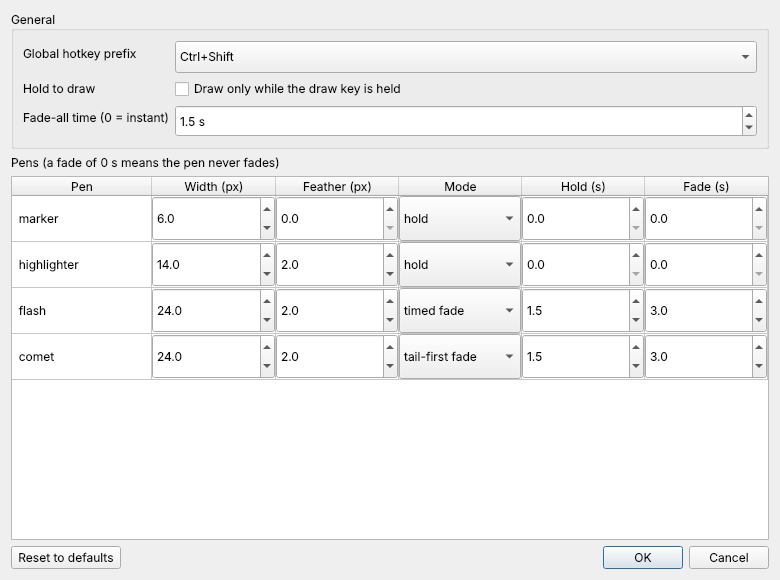
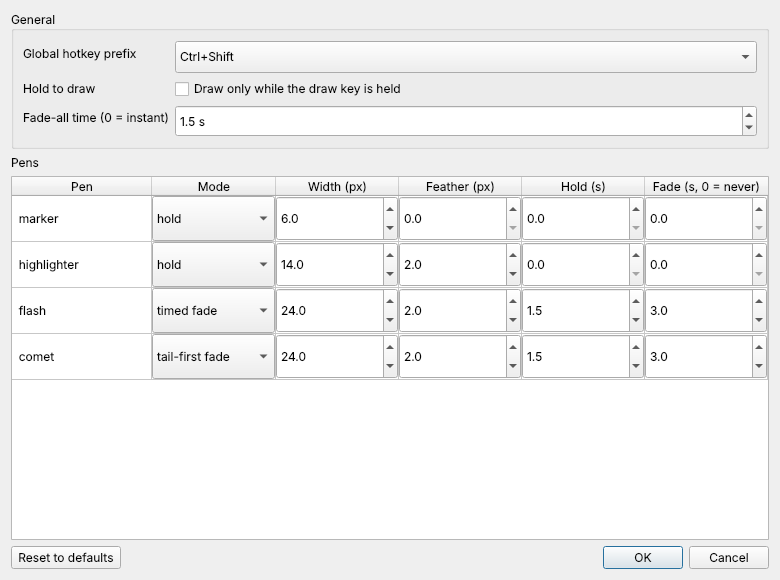
feat: put Mode next to Pen in settings and the fade reminder in its header
The settings dialog's pen table now reads Pen, Mode, Width, Feather, Hold,
Fade, so how a pen fades sits right next to its name and the numbers that
tune it follow. The values are read from per-kind lists, not column
positions, so moving the column cannot swap what it edits (a test edits
each column and checks the value it changes).

The "a fade of 0 s means the pen never fades" sentence moves from above the
table into the Fade column header, "Fade (s, 0 = never)", with a tooltip
carrying the full sentence; the label above the table is now just "Pens".
Tests check the header text and tooltip, that the sentence is gone from
above the table, and that the header fits its column at the default size.
The settings screenshot is regenerated. Refreshes the session log.

AIA PAI SeCeNc Hin R Claude Code Web Sonnet 5.5 Medium v1.0

Vibe-Coder: Vibe-Coder 1.z3r0 <243014891+vibecoder-1z3r0@users.noreply.github.com>

diff --git a/tests/test_gui/test_settings_dialog.py b/tests/test_gui/test_settings_dialog.py
@@ -302,3 +302,67 @@ def test_the_pen_name_column_is_wide_enough_for_the_longest_name(
         if isinstance(dialog.table.cellWidget(row, 0), QLabel)
     )
     assert dialog.table.columnWidth(0) >= widest + 16  # room to breathe
+
+
+def test_the_mode_column_sits_right_next_to_the_pen_name(qapp: QApplication) -> None:
+    from PySide6.QtWidgets import QComboBox, QDoubleSpinBox
+
+    dialog = SettingsDialog(Settings(), DEFAULT_PENS)
+    headers = [
+        dialog.table.horizontalHeaderItem(c).text()
+        for c in range(dialog.table.columnCount())
+    ]
+    assert headers == [
+        "Pen",
+        "Mode",
+        "Width (px)",
+        "Feather (px)",
+        "Hold (s)",
+        "Fade (s, 0 = never)",
+    ]
+    for row in range(dialog.table.rowCount()):
+        assert isinstance(dialog.table.cellWidget(row, 1), QComboBox)
+        for column in range(2, 6):
+            assert isinstance(dialog.table.cellWidget(row, column), QDoubleSpinBox)
+
+
+def test_each_column_edits_the_value_its_header_says(qapp: QApplication) -> None:
+    """Moving a column must not swap what it edits."""
+    dialog = SettingsDialog(Settings(), DEFAULT_PENS)
+    comet = next(i for i, p in enumerate(DEFAULT_PENS) if p.name == "comet")
+    table = dialog.table
+    table.cellWidget(comet, 1).setCurrentIndex(  # Mode
+        list(DissipationMode).index(DissipationMode.TIMED_FADE)
+    )
+    table.cellWidget(comet, 2).setValue(31)  # Width
+    table.cellWidget(comet, 3).setValue(4.5)  # Feather
+    table.cellWidget(comet, 4).setValue(2.5)  # Hold
+    table.cellWidget(comet, 5).setValue(6)  # Fade
+    pen = dialog.result_values()[1][comet]
+    assert pen.mode == DissipationMode.TIMED_FADE
+    assert (pen.width, pen.feather, pen.hold_s, pen.fade_s) == (31.0, 4.5, 2.5, 6.0)
+
+
+def test_the_fade_reminder_is_in_the_fade_column_header(qapp: QApplication) -> None:
+    from PySide6.QtWidgets import QLabel
+
+    dialog = SettingsDialog(Settings(), DEFAULT_PENS)
+    header = dialog.table.horizontalHeaderItem(5)
+    assert header is not None
+    assert "0 = never" in header.text()
+    assert "never fades" in header.toolTip()
+    # ...and no longer a sentence above the table
+    labels = [w.text() for w in dialog.findChildren(QLabel)]
+    assert not any("never fades" in t for t in labels)
+
+
+def test_the_header_text_fits_its_column_at_the_default_size(
+    qapp: QApplication,
+) -> None:
+    dialog = SettingsDialog(Settings(), DEFAULT_PENS)
+    dialog.show()
+    header = dialog.table.horizontalHeader()
+    fade_text = dialog.table.horizontalHeaderItem(5).text()
+    needed = header.fontMetrics().horizontalAdvance(fade_text)
+    assert header.sectionSize(5) >= needed + 8, (header.sectionSize(5), needed)
+    dialog.close()

diff --git a/src/maddenmode/gui/settings_dialog.py b/src/maddenmode/gui/settings_dialog.py
@@ -27,7 +27,10 @@ from maddenmode.controller import ModifierPrefix, Settings
 from maddenmode.labels import display_chord, mode_label
 from maddenmode.pen import DEFAULT_PENS, MAX_TIME_S, DissipationMode, Pen
 
-COLUMNS = ["Pen", "Width (px)", "Feather (px)", "Mode", "Hold (s)", "Fade (s)"]
+FADE_HEADER = "Fade (s, 0 = never)"
+FADE_TOOLTIP = "How long the fade takes. A fade of 0 s means the pen never fades."
+# How a pen fades comes right after its name, then the numbers that tune it.
+COLUMNS = ["Pen", "Mode", "Width (px)", "Feather (px)", "Hold (s)", FADE_HEADER]
 
 DEFAULT_SIZE = (940, 580)
 MIN_SIZE = (780, 460)
@@ -101,9 +104,12 @@ class SettingsDialog(QDialog):
         form.addRow("Fade-all time (0 = instant)", self.fade_all_spin)
         layout.addWidget(general)
 
-        layout.addWidget(QLabel("Pens (a fade of 0 s means the pen never fades)"))
+        layout.addWidget(QLabel("Pens"))
         self.table = QTableWidget(len(pens), len(COLUMNS))
         self.table.setHorizontalHeaderLabels(COLUMNS)
+        fade_header = self.table.horizontalHeaderItem(COLUMNS.index(FADE_HEADER))
+        if fade_header is not None:
+            fade_header.setToolTip(FADE_TOOLTIP)
         self.table.verticalHeader().setVisible(False)
         self.width_spins: list[QDoubleSpinBox] = []
         self.feather_spins: list[QDoubleSpinBox] = []
@@ -122,7 +128,7 @@ class SettingsDialog(QDialog):
             hold = _spin(pen.hold_s, 0.0, MAX_TIME_S, 0.1)
             fade = _spin(pen.fade_s, 0.0, MAX_TIME_S, 0.1)
             for column, widget in enumerate(
-                (width, feather, mode, hold, fade), start=1
+                (mode, width, feather, hold, fade), start=1
             ):
                 self.table.setCellWidget(row, column, widget)
             self.width_spins.append(width)

diff --git a/SESSION_LOG.md b/SESSION_LOG.md
@@ -89,17 +89,17 @@ Source: `/root/.claude/projects/-home-user/83b6fe43-fdef-5d48-9254-009a9ebfb942.
 | 83 | Why are we minting and type checking on all three platforms?  That che… | 16:52:27 | 52s | 1s | 21 | 8,513 | 8,462 | 7,232,340 |
 | 84 | Linting* | 16:53:20 | 6m 46s | 1m 11s | 42 | 13,869 | 37,945 | 14,641,058 |
 | 85 | pull and prune - PR is merged and branch is gone | 17:01:17 | 20s | 1m 5s | 12 | 2,757 | 2,609 | 4,120,908 |
-| 86 | you still have comet as cyan as default... maybe all defaults should b… | 17:02:42 | 1m 12s | — | 39 | 28,596 | 42,556 | 14,938,773 |
+| 86 | you still have comet as cyan as default... maybe all defaults should b… | 17:02:42 | 2m 15s | — | 85 | 48,583 | 74,082 | 30,922,627 |
 
 **Total turns:** 86  
-**Total agent time spent (excl. flagged):** 1h 35m  
+**Total agent time spent (excl. flagged):** 1h 36m  
 **Total human think time (excl. outliers):** 1h 49m  
 **Average human think time (excl. outliers):** 1m 21s  
 **Think-time outliers (> 15 min):** 4  
-**Total input tokens:** 2,173  
-**Total output tokens:** 1,533,713  
-**Total cache-write tokens:** 4,160,712  
-**Total cache-read tokens:** 403,245,300  
+**Total input tokens:** 2,219  
+**Total output tokens:** 1,553,700  
+**Total cache-write tokens:** 4,192,238  
+**Total cache-read tokens:** 419,229,154  
 **Cache hit ratio (cache-read ÷ all prompt-side tokens):** 99%
 
 ⏳ Turn(s) 65, 72, 73, 79 had a 'human think time' over 15 min (total 36h 42m) — likely a break, a resumed session, or time reading a long response rather than active back-and-forth. Excluded from BOTH the total and the average above (still shown per-row).
